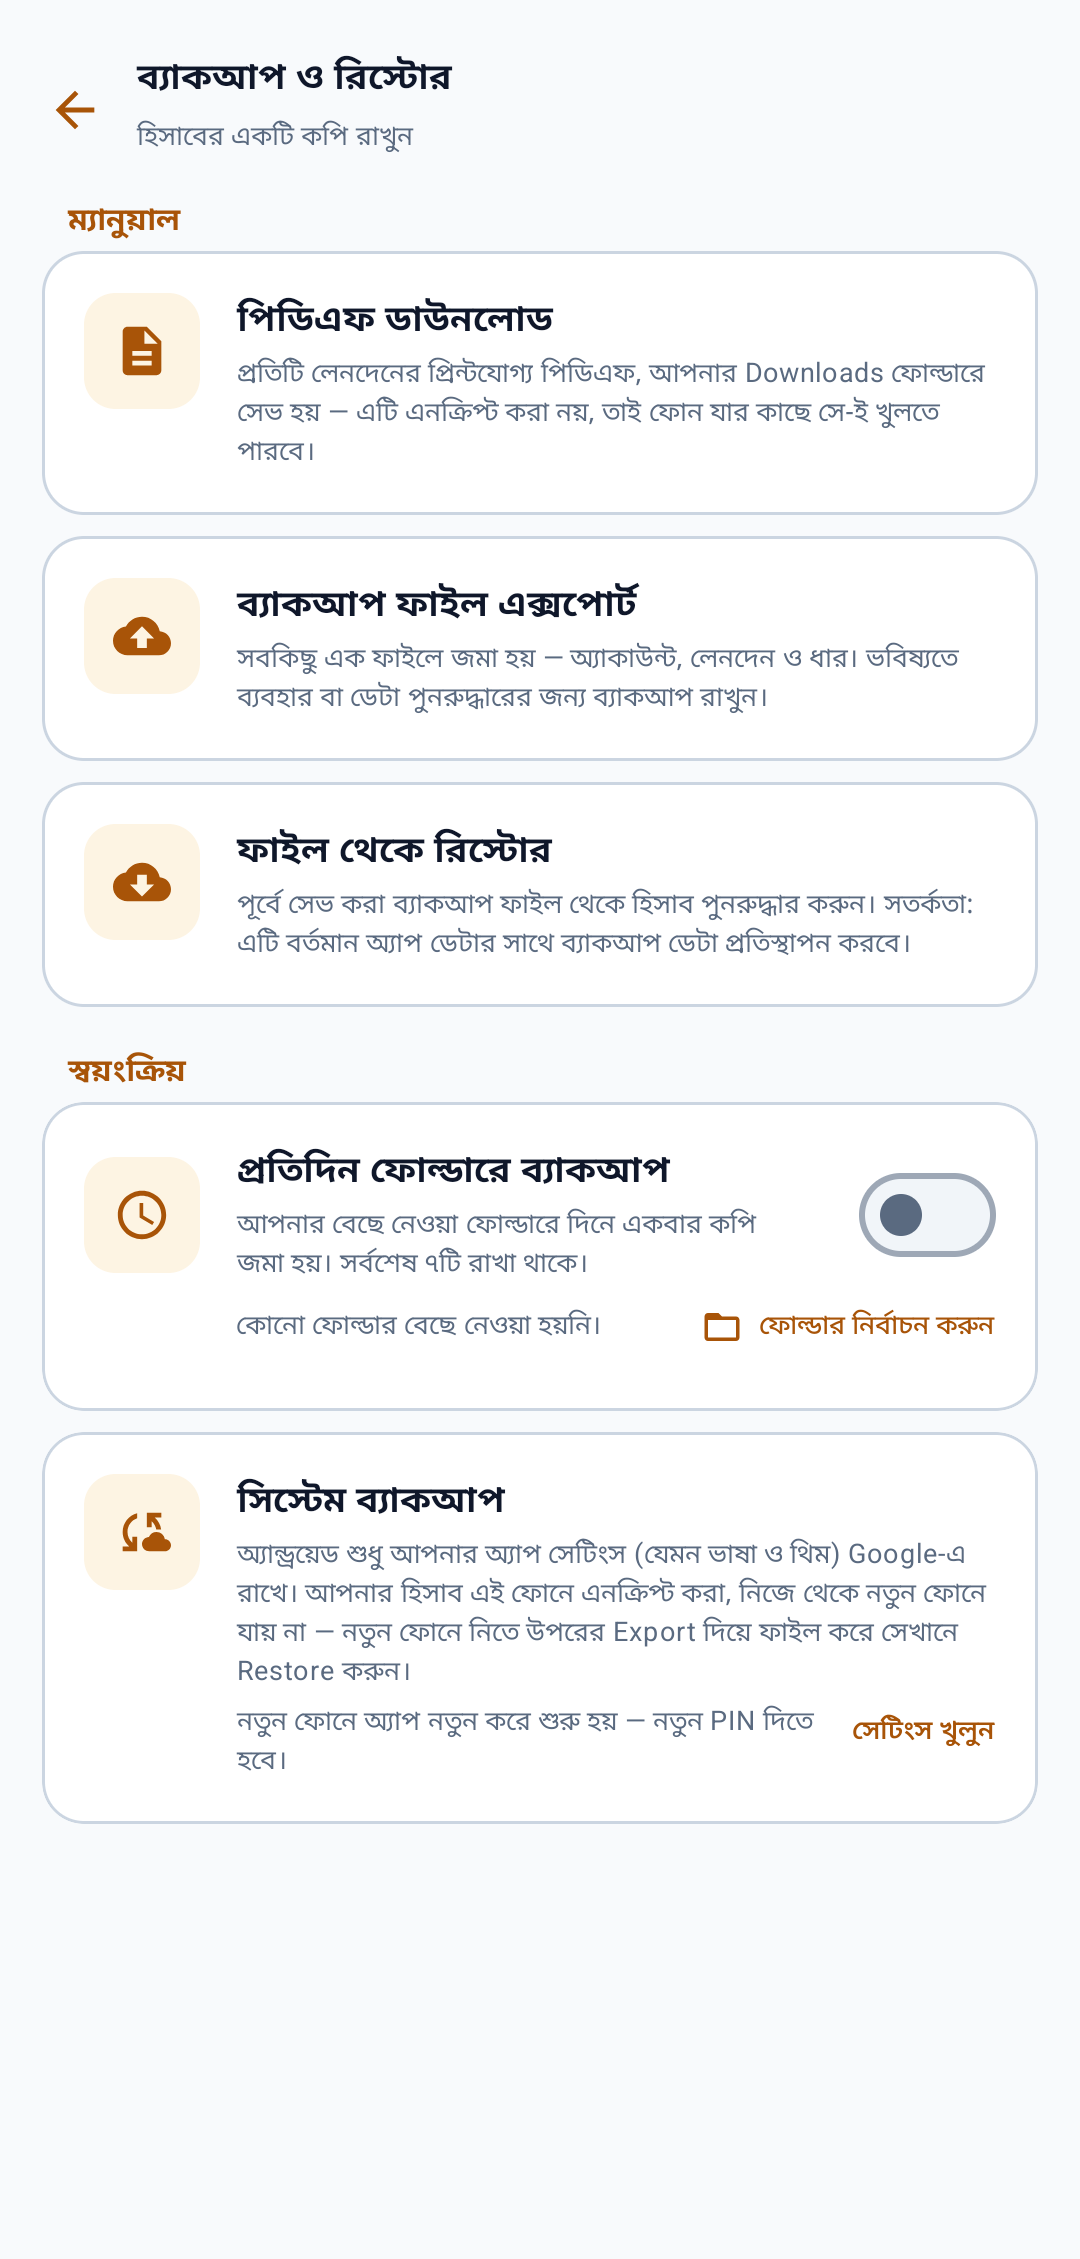
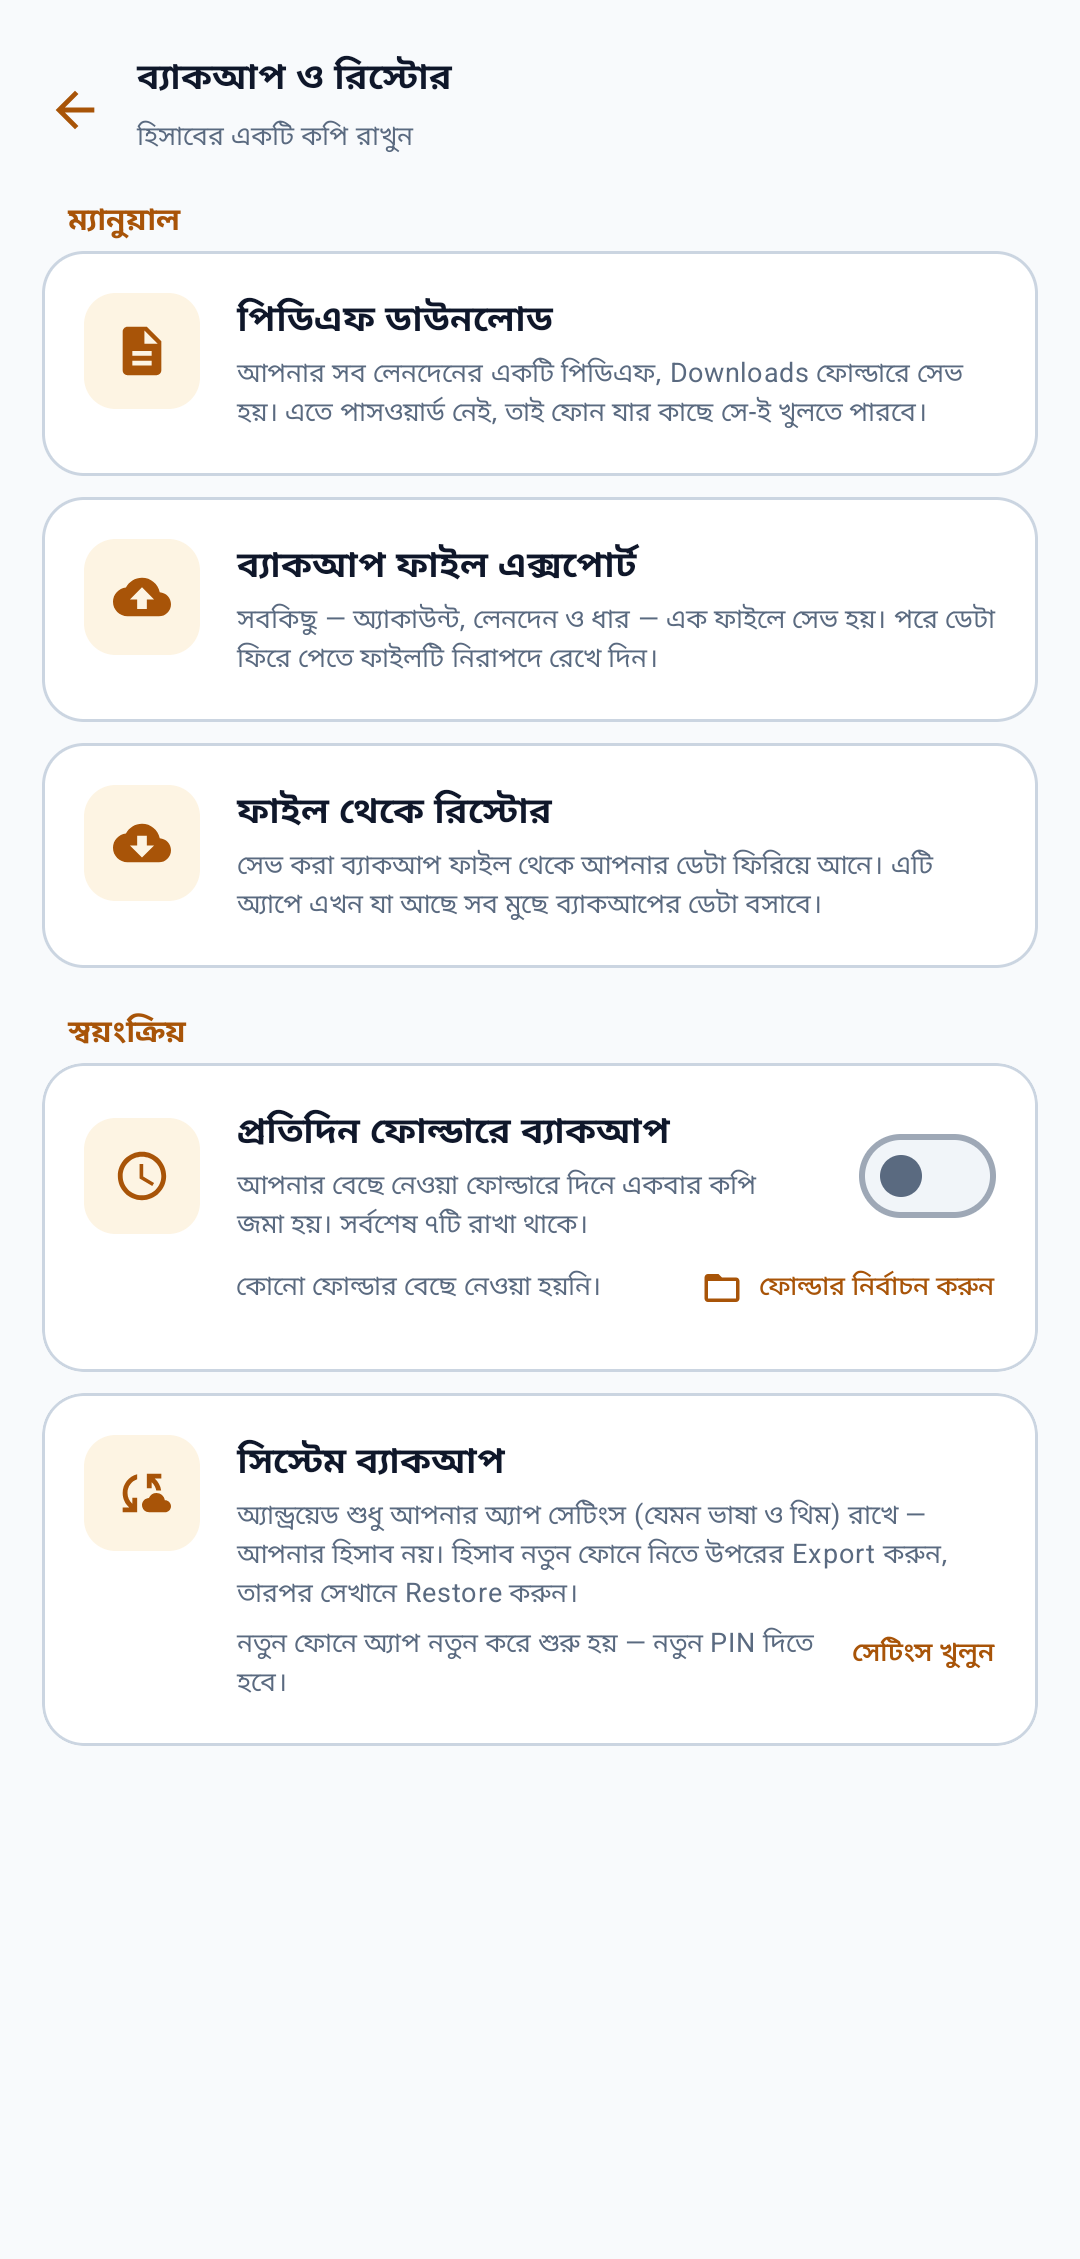
Website v2.14.3: pictures follow app 1.1.83, Bangla digits
Home, transactions and backup retaken on the sample ledger with app 1.1.83 (the
backup page's new wording); the share picture rendered again from the new home
screen. Figures written into the pages -- the home page's 0 / 2 / 3, the section
and step numbers -- switch to Bangla digits with the language, the way every
number the script writes already did.

diff --git a/assets/site.js b/assets/site.js
@@ -28,7 +28,7 @@ document.documentElement.classList.add('js');
  * number for a fix to what is there, the middle one for a new page, section or feature.
  * The app's version is a separate thing and comes from the releases API.
  */
-const SITE_VERSION = '2.14.2';
+const SITE_VERSION = '2.14.3';
 
 const LANGS = { en: 0, bn: 1 };
 // The language actually on the page. Where storage is blocked the saved choice cannot
@@ -81,6 +81,13 @@ function applyLang(lang) {
   });
   document.querySelectorAll('[data-site-version]').forEach(el => {
     el.textContent = S.siteVersion[i].replace('{v}', num(SITE_VERSION));
+  });
+  // Figures written straight into the HTML -- the home page's 0 / 2 / 3, the section and
+  // step badges, the install page's contents -- follow the language like every number the
+  // script writes. The page's own digits are kept as the source to switch back from.
+  document.querySelectorAll('.num-big:not([data-rel]), .num-badge, .toc-n').forEach(el => {
+    if (el.dataset.n === undefined) el.dataset.n = el.textContent;
+    el.textContent = num(el.dataset.n);
   });
   // A control whose face is a glyph still needs words for a screen reader; data-s-label
   // puts them in aria-label instead of in the text, and in the same language.

diff --git a/features.html b/features.html
@@ -248,7 +248,7 @@
       <p data-s="footerNote">Built for keeping one household’s books. No trackers on this page.</p>
     </div>
     <p class="foot-links">
-      <span class="foot-ver" data-site-version>Website v2.14.2</span>
+      <span class="foot-ver" data-site-version>Website v2.14.3</span>
       <a href="privacy.html" data-s="navPrivacy">Privacy</a>
       <a href="install.html" data-s="navInstall">How to install</a>
     </p>

diff --git a/index.html b/index.html
@@ -312,7 +312,7 @@
       <p data-s="footerNote">Built for keeping one household’s books. No trackers on this page.</p>
     </div>
     <p class="foot-links">
-      <span class="foot-ver" data-site-version>Website v2.14.2</span>
+      <span class="foot-ver" data-site-version>Website v2.14.3</span>
       <a href="privacy.html" data-s="navPrivacy">Privacy</a>
       <a href="install.html" data-s="navInstall">How to install</a>
     </p>

diff --git a/install.html b/install.html
@@ -219,7 +219,7 @@
       <p data-s="footerNote">Built for keeping one household’s books. No trackers on this page.</p>
     </div>
     <p class="foot-links">
-      <span class="foot-ver" data-site-version>Website v2.14.2</span>
+      <span class="foot-ver" data-site-version>Website v2.14.3</span>
       <a href="privacy.html" data-s="navPrivacy">Privacy</a>
       <a href="install.html" data-s="navInstall">How to install</a>
     </p>

diff --git a/privacy.html b/privacy.html
@@ -199,7 +199,7 @@
       <p data-s="footerNote">Built for keeping one household’s books. No trackers on this page.</p>
     </div>
     <p class="foot-links">
-      <span class="foot-ver" data-site-version>Website v2.14.2</span>
+      <span class="foot-ver" data-site-version>Website v2.14.3</span>
       <a href="privacy.html" data-s="navPrivacy">Privacy</a>
       <a href="install.html" data-s="navInstall">How to install</a>
     </p>

diff --git a/CHANGELOG.md b/CHANGELOG.md
@@ -12,7 +12,8 @@ Counted back over the history when the number was introduced; repository houseke
 
 | Version | Date | Commit | What |
 |---|---|---|---|
-| 2.14.2 | 2026-10-09 | — | Fixes from a review: the backup password is the owner's choice, step 4 names the PIN-entry choice, the Google settings copy on deleting, meta description, internet and PDF wording, sitemap dates |
+| 2.14.3 | 2026-10-09 | — | Pictures follow app 1.1.83 (home, transactions, backup); the share picture retaken; figures written into the pages (0 / 2 / 3, section and step numbers) in Bangla digits when the page is in Bangla |
+| 2.14.2 | 2026-10-09 | a4e4cbe | Fixes from a review: the backup password is the owner's choice, step 4 names the PIN-entry choice, the Google settings copy on deleting, meta description, internet and PDF wording, sitemap dates |
 | 2.14.1 | 2026-10-09 | db0f8d1 | Pictures follow app 1.1.82: all six screens and step 4 retaken on the sample ledger, step 4 now three steps, loan numbers shown as 01XXXXXXXXX |
 | 2.14.0 | 2026-10-09 | 8cbc5b2 | Words follow app 1.1.82: FDR & DPS, the encrypted ledger, auto-lock, loans by mobile number, three permissions (no Contacts), Android backup carries settings only; pictures still 1.1.72 |
 | 2.13.3 | 2026-10-08 | cd24a90 | Privacy: the four-answer summary on a gold ground, dark words in both themes |

diff --git a/README.md b/README.md
@@ -50,7 +50,7 @@ read — the ink is a step deeper for exactly that reason. The app hit this same
 
 ## The website's version
 
-Every footer says "Website v2.14.2". `CHANGELOG.md` lists every version and what it was. The number lives once, as SITE_VERSION at the top of
+Every footer says "Website v2.14.3". `CHANGELOG.md` lists every version and what it was. The number lives once, as SITE_VERSION at the top of
 `assets/site.js`, and is raised on every publish: the last part for a fix to what is
 there, the middle part for a new page, section or feature. It is the site's own version and
 has nothing to do with the app's.
